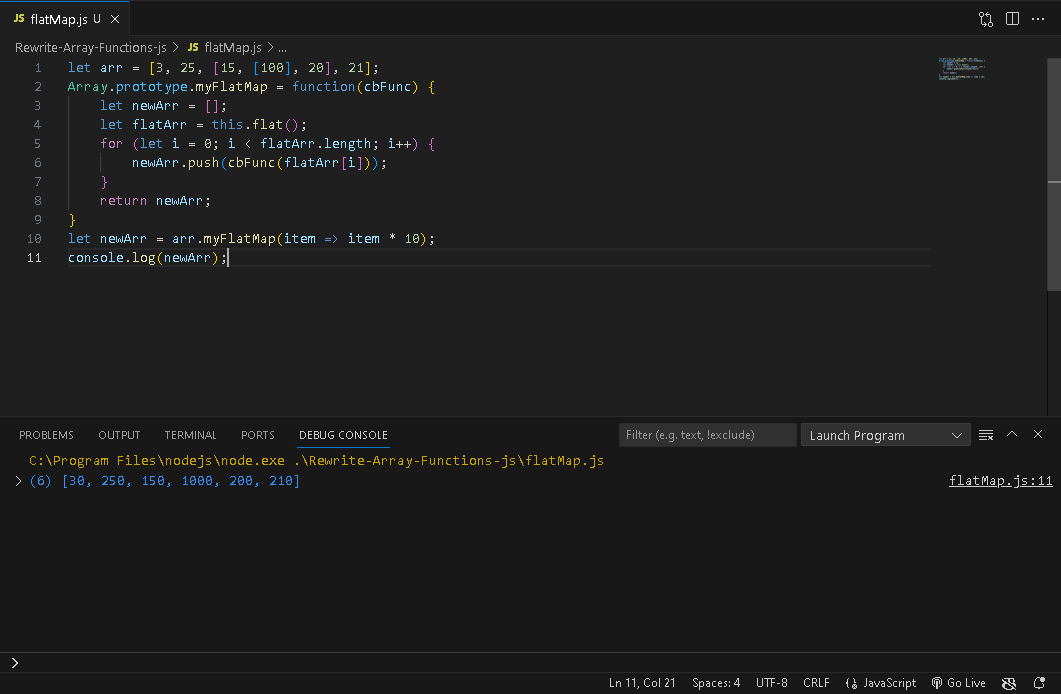
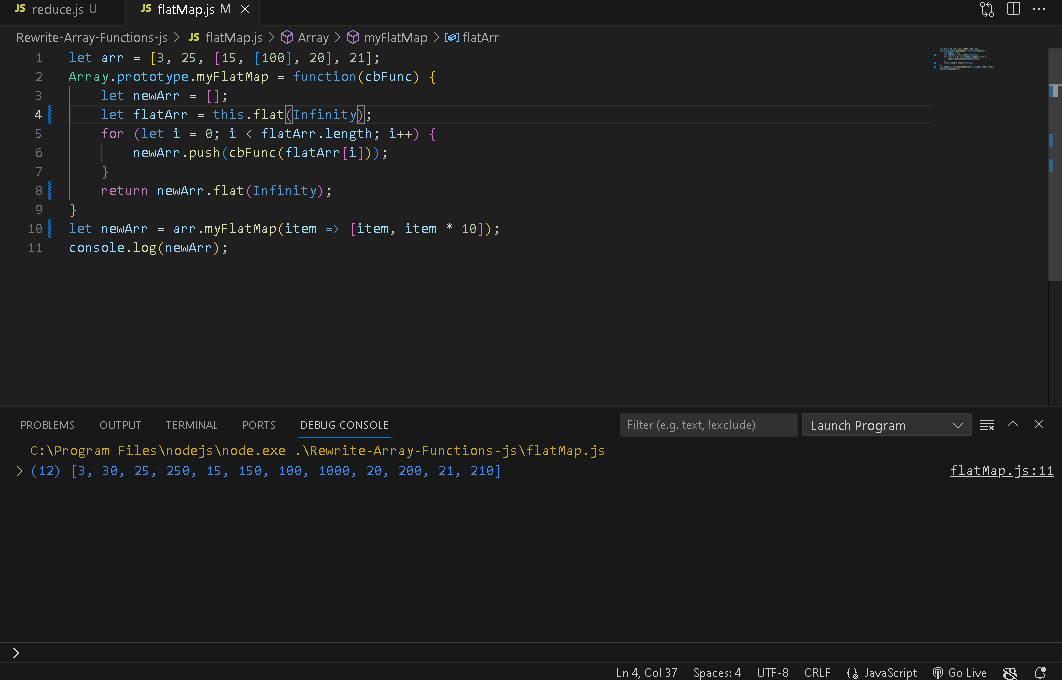
commit rewrite flatMap ver 2

diff --git a/Rewrite-Array-Functions-js/flatMap.js b/Rewrite-Array-Functions-js/flatMap.js
@@ -1,11 +1,11 @@
 let arr = [3, 25, [15, [100], 20], 21];
 Array.prototype.myFlatMap = function(cbFunc) {
     let newArr = [];
-    let flatArr = this.flat();
+    let flatArr = this.flat(Infinity);
     for (let i = 0; i < flatArr.length; i++) {
         newArr.push(cbFunc(flatArr[i]));
     }
-    return newArr;
+    return newArr.flat(Infinity);
 }
-let newArr = arr.myFlatMap(item => item * 10);
+let newArr = arr.myFlatMap(item => [item, item * 10]);
 console.log(newArr);

diff --git a/Rewrite-Array-Functions-js/reduce.js b/Rewrite-Array-Functions-js/reduce.js
@@ -1,0 +1,8 @@
+let arr = [3, 25, 15, 100, 20, 21];
+Array.prototype.myReduce = function(cbFunc, initialValue) {
+    for (let i = 0; i < this.length; i++) {
+        cbFunc(this[i]);
+    }
+}
+let total = 0;
+arr.myReduce(item => console.log(item));
